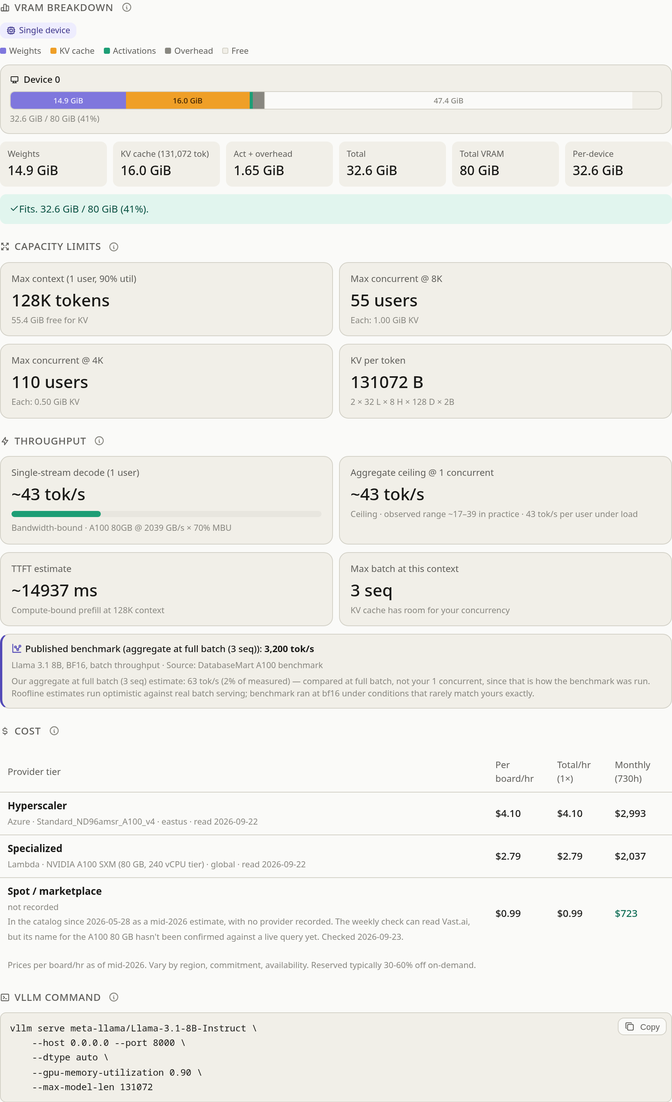
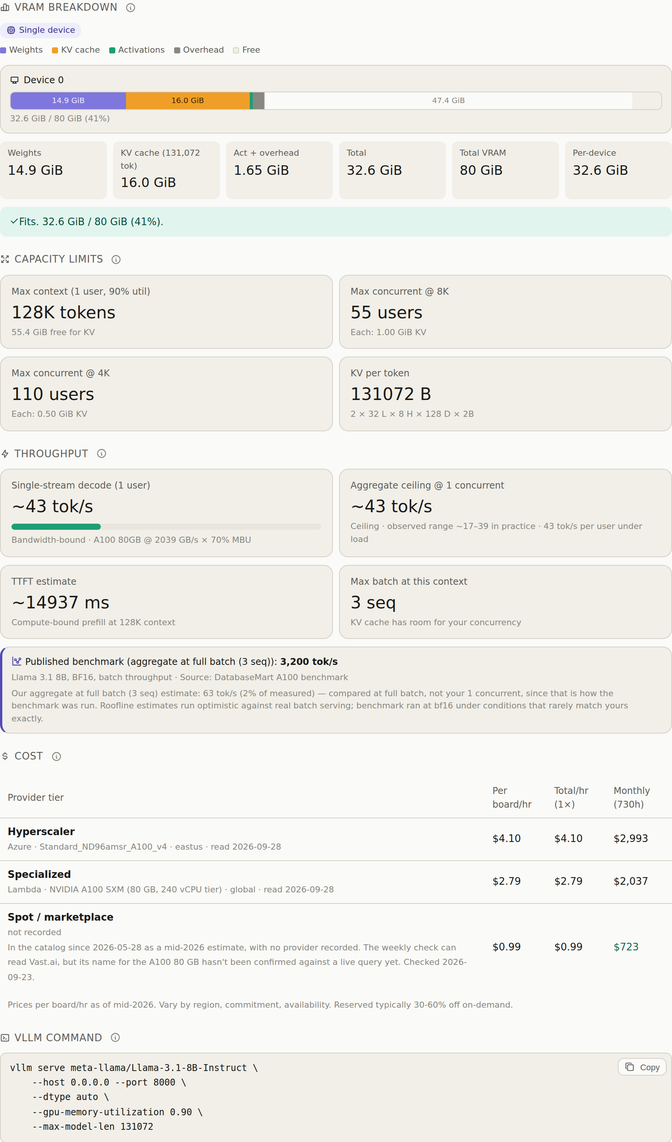
price-refresh: update catalog prices and provenance

diff --git a/index.html b/index.html
@@ -530,22 +530,22 @@ const MODEL_PRESETS = {
    ============================================================================= */
 /* GPU_TABLE:BEGIN — generated by tools/sync_data.py from data/gpus.json. Do not hand-edit; edit the JSON and re-run the script. */
 const GPU_TABLE = {
-  't4-16': { gb:16, bw:320, hyper:0.53, spec:0.35, spot:0.15, tflops:65, name:'T4 16 GB', vendor:'nvidia', perfKey:'nvidia', devices:1, form:'pcie', caps:{ fp8: false }, priceSource:{ hyper: { provider: 'aws', sku: 'g4dn.xlarge', region: 'US East (N. Virginia)', date: '2026-09-22', price: 0.53 } }, priceNote:{ spec: { reason: 'In the catalog since 2026-05-28 as a mid-2026 estimate, with no provider recorded. Lambda and CoreWeave, the specialized clouds the weekly check reads, don\'t list the T4.', checked: '2026-09-16' }, spot: { reason: 'In the catalog since 2026-05-28 as a mid-2026 estimate, with no provider recorded. The weekly check can read Vast.ai, but its name for the T4 hasn\'t been confirmed against a live query yet.', checked: '2026-09-23' } } },
-  'l4-24': { gb:24, bw:300, hyper:0.8, spec:0.43, spot:0.22, tflops:121, name:'L4 24 GB', vendor:'nvidia', perfKey:'nvidia', devices:1, form:'pcie', caps:{ fp8: true }, priceSource:{ hyper: { provider: 'aws', sku: 'g6.xlarge', region: 'US East (N. Virginia)', date: '2026-09-22', price: 0.8 } }, priceNote:{ spec: { reason: 'In the catalog since 2026-07-27 as a mid-2026 list price, with no provider recorded. Lambda and CoreWeave, the specialized clouds the weekly check reads, don\'t list the L4.', checked: '2026-09-16' }, spot: { reason: 'In the catalog since 2026-07-27 as a mid-2026 list price, with no provider recorded. The weekly check can read Vast.ai, but its name for the L4 hasn\'t been confirmed against a live query yet.', checked: '2026-09-23' } } },
-  'rtx4090-24': { gb:24, bw:1008, hyper:null, spec:0.45, spot:0.54, tflops:165, name:'RTX 4090 24 GB', vendor:'nvidia', perfKey:'nvidia', devices:1, form:'consumer', caps:{ fp8: true }, priceSource:{ spot: { provider: 'vast', sku: 'RTX 4090 (median of 43 verified offers)', region: 'global', date: '2026-09-22', price: 0.54 } }, priceNote:{ hyper: { reason: 'No hyperscaler rents this card: AWS, Azure, Google Cloud and Oracle list no offer for it.', checked: '2026-09-23' }, spec: { reason: 'In the catalog since 2026-05-28 as a mid-2026 estimate, with no provider recorded. Lambda and CoreWeave, the specialized clouds the weekly check reads, don\'t list the RTX 4090.', checked: '2026-09-16' } } },
+  't4-16': { gb:16, bw:320, hyper:0.53, spec:0.35, spot:0.15, tflops:65, name:'T4 16 GB', vendor:'nvidia', perfKey:'nvidia', devices:1, form:'pcie', caps:{ fp8: false }, priceSource:{ hyper: { provider: 'aws', sku: 'g4dn.xlarge', region: 'US East (N. Virginia)', date: '2026-09-28', price: 0.53 } }, priceNote:{ spec: { reason: 'In the catalog since 2026-05-28 as a mid-2026 estimate, with no provider recorded. Lambda and CoreWeave, the specialized clouds the weekly check reads, don\'t list the T4.', checked: '2026-09-16' }, spot: { reason: 'In the catalog since 2026-05-28 as a mid-2026 estimate, with no provider recorded. The weekly check can read Vast.ai, but its name for the T4 hasn\'t been confirmed against a live query yet.', checked: '2026-09-23' } } },
+  'l4-24': { gb:24, bw:300, hyper:0.8, spec:0.43, spot:0.22, tflops:121, name:'L4 24 GB', vendor:'nvidia', perfKey:'nvidia', devices:1, form:'pcie', caps:{ fp8: true }, priceSource:{ hyper: { provider: 'aws', sku: 'g6.xlarge', region: 'US East (N. Virginia)', date: '2026-09-28', price: 0.8 } }, priceNote:{ spec: { reason: 'In the catalog since 2026-07-27 as a mid-2026 list price, with no provider recorded. Lambda and CoreWeave, the specialized clouds the weekly check reads, don\'t list the L4.', checked: '2026-09-16' }, spot: { reason: 'In the catalog since 2026-07-27 as a mid-2026 list price, with no provider recorded. The weekly check can read Vast.ai, but its name for the L4 hasn\'t been confirmed against a live query yet.', checked: '2026-09-23' } } },
+  'rtx4090-24': { gb:24, bw:1008, hyper:null, spec:0.45, spot:0.53, tflops:165, name:'RTX 4090 24 GB', vendor:'nvidia', perfKey:'nvidia', devices:1, form:'consumer', caps:{ fp8: true }, priceSource:{ spot: { provider: 'vast', sku: 'RTX 4090 (median of 46 verified offers)', region: 'global', date: '2026-09-28', price: 0.53 } }, priceNote:{ hyper: { reason: 'No hyperscaler rents this card: AWS, Azure, Google Cloud and Oracle list no offer for it.', checked: '2026-09-23' }, spec: { reason: 'In the catalog since 2026-05-28 as a mid-2026 estimate, with no provider recorded. Lambda and CoreWeave, the specialized clouds the weekly check reads, don\'t list the RTX 4090.', checked: '2026-09-16' } } },
   'rtx5090-32': { gb:32, bw:1792, hyper:null, spec:0.65, spot:0.45, tflops:419, name:'RTX 5090 32 GB', vendor:'nvidia', perfKey:'nvidia', devices:1, form:'consumer', caps:{ fp8: true }, priceNote:{ hyper: { reason: 'No hyperscaler rents this card: AWS, Azure, Google Cloud and Oracle list no offer for it.', checked: '2026-09-23' }, spec: { reason: 'In the catalog since 2026-07-27 as a mid-2026 list price, with no provider recorded. Lambda and CoreWeave, the specialized clouds the weekly check reads, don\'t list the RTX 5090.', checked: '2026-09-16' }, spot: { reason: 'In the catalog since 2026-07-27 as a mid-2026 list price, with no provider recorded. The weekly check can read Vast.ai, but its name for the RTX 5090 hasn\'t been confirmed against a live query yet.', checked: '2026-09-23' } } },
-  'a100-40': { gb:40, bw:1555, hyper:3.4, spec:1.99, spot:0.63, tflops:312, name:'A100 40 GB', vendor:'nvidia', perfKey:'nvidia', devices:1, form:'sxm', caps:{ fp8: false }, default:true, priceSource:{ hyper: { provider: 'azure', sku: 'Standard_ND96asr_A100_v4', region: 'eastus', date: '2026-09-22', price: 3.4 }, spec: { provider: 'lambda', sku: 'NVIDIA A100 SXM (40 GB, 124 vCPU tier)', region: 'global', date: '2026-09-22', price: 1.99 } }, priceNote:{ spot: { reason: 'In the catalog since 2026-05-28 as a mid-2026 estimate, with no provider recorded. The weekly check can read Vast.ai, but its name for the A100 40 GB hasn\'t been confirmed against a live query yet.', checked: '2026-09-23' } } },
+  'a100-40': { gb:40, bw:1555, hyper:3.4, spec:1.99, spot:0.63, tflops:312, name:'A100 40 GB', vendor:'nvidia', perfKey:'nvidia', devices:1, form:'sxm', caps:{ fp8: false }, default:true, priceSource:{ hyper: { provider: 'azure', sku: 'Standard_ND96asr_A100_v4', region: 'eastus', date: '2026-09-28', price: 3.4 }, spec: { provider: 'lambda', sku: 'NVIDIA A100 SXM (40 GB, 124 vCPU tier)', region: 'global', date: '2026-09-28', price: 1.99 } }, priceNote:{ spot: { reason: 'In the catalog since 2026-05-28 as a mid-2026 estimate, with no provider recorded. The weekly check can read Vast.ai, but its name for the A100 40 GB hasn\'t been confirmed against a live query yet.', checked: '2026-09-23' } } },
   'rtx6000ada-48': { gb:48, bw:960, hyper:null, spec:0.9, spot:0.6, tflops:364, name:'RTX 6000 Ada 48 GB', vendor:'nvidia', perfKey:'nvidia', devices:1, form:'pcie', caps:{ fp8: true }, priceNote:{ hyper: { reason: 'No hyperscaler rents this card: AWS, Azure, Google Cloud and Oracle list no offer for it.', checked: '2026-09-23' }, spec: { reason: 'In the catalog since 2026-07-27 as a mid-2026 list price, with no provider recorded. Lambda\'s and CoreWeave\'s A6000 is the older Ampere RTX A6000, not this card.', checked: '2026-09-16' }, spot: { reason: 'In the catalog since 2026-07-27 as a mid-2026 list price, with no provider recorded. The weekly check can read Vast.ai, but its name for the RTX 6000 Ada hasn\'t been confirmed against a live query yet.', checked: '2026-09-23' } } },
-  'l40s-48': { gb:48, bw:864, hyper:1.86, spec:2.25, spot:0.9, tflops:362, name:'L40S 48 GB', vendor:'nvidia', perfKey:'nvidia', devices:1, form:'pcie', caps:{ fp8: true }, priceSource:{ hyper: { provider: 'aws', sku: 'g6e.xlarge', region: 'US East (N. Virginia)', date: '2026-09-22', price: 1.86 }, spec: { provider: 'coreweave', sku: 'NVIDIA L40S', region: 'global', date: '2026-09-22', price: 2.25 } }, priceNote:{ spot: { reason: 'In the catalog since 2026-05-28 as a mid-2026 estimate, with no provider recorded. The weekly check can read Vast.ai, but its name for the L40S hasn\'t been confirmed against a live query yet.', checked: '2026-09-23' } } },
-  'a100-80': { gb:80, bw:2039, hyper:4.1, spec:2.79, spot:0.99, tflops:312, name:'A100 80 GB', vendor:'nvidia', perfKey:'nvidia', devices:1, form:'sxm', caps:{ fp8: false }, priceSource:{ hyper: { provider: 'azure', sku: 'Standard_ND96amsr_A100_v4', region: 'eastus', date: '2026-09-22', price: 4.1 }, spec: { provider: 'lambda', sku: 'NVIDIA A100 SXM (80 GB, 240 vCPU tier)', region: 'global', date: '2026-09-22', price: 2.79 } }, priceNote:{ spot: { reason: 'In the catalog since 2026-05-28 as a mid-2026 estimate, with no provider recorded. The weekly check can read Vast.ai, but its name for the A100 80 GB hasn\'t been confirmed against a live query yet.', checked: '2026-09-23' } } },
+  'l40s-48': { gb:48, bw:864, hyper:1.86, spec:2.25, spot:0.9, tflops:362, name:'L40S 48 GB', vendor:'nvidia', perfKey:'nvidia', devices:1, form:'pcie', caps:{ fp8: true }, priceSource:{ hyper: { provider: 'aws', sku: 'g6e.xlarge', region: 'US East (N. Virginia)', date: '2026-09-28', price: 1.86 }, spec: { provider: 'coreweave', sku: 'NVIDIA L40S', region: 'global', date: '2026-09-28', price: 2.25 } }, priceNote:{ spot: { reason: 'In the catalog since 2026-05-28 as a mid-2026 estimate, with no provider recorded. The weekly check can read Vast.ai, but its name for the L40S hasn\'t been confirmed against a live query yet.', checked: '2026-09-23' } } },
+  'a100-80': { gb:80, bw:2039, hyper:4.1, spec:2.79, spot:0.99, tflops:312, name:'A100 80 GB', vendor:'nvidia', perfKey:'nvidia', devices:1, form:'sxm', caps:{ fp8: false }, priceSource:{ hyper: { provider: 'azure', sku: 'Standard_ND96amsr_A100_v4', region: 'eastus', date: '2026-09-28', price: 4.1 }, spec: { provider: 'lambda', sku: 'NVIDIA A100 SXM (80 GB, 240 vCPU tier)', region: 'global', date: '2026-09-28', price: 2.79 } }, priceNote:{ spot: { reason: 'In the catalog since 2026-05-28 as a mid-2026 estimate, with no provider recorded. The weekly check can read Vast.ai, but its name for the A100 80 GB hasn\'t been confirmed against a live query yet.', checked: '2026-09-23' } } },
   'h100-80': { gb:80, bw:3352, hyper:12.3, spec:3.99, spot:2.25, tflops:990, name:'H100 80 GB', vendor:'nvidia', perfKey:'nvidia', devices:1, form:'sxm', caps:{ fp8: true }, priceSource:{ hyper: { provider: 'azure', sku: 'Standard_ND96isr_H100_v5', region: 'eastus', date: '2026-09-22', price: 12.29 }, spec: { provider: 'lambda', sku: 'NVIDIA H100 SXM (80 GB, 208 vCPU tier)', region: 'global', date: '2026-09-22', price: 3.99 } }, priceNote:{ spot: { reason: 'In the catalog since 2026-05-28 as a mid-2026 estimate, with no provider recorded. The weekly Vast.ai read on 2026-09-22 came back 42.5% higher, past the 40% a person has to approve, and is held for a second read.', checked: '2026-09-23' } } },
-  'rtxpro-96': { gb:96, bw:1792, hyper:3.36, spec:2.5, spot:2.0, tflops:504, name:'RTX PRO 6000 96 GB', vendor:'nvidia', perfKey:'nvidia', devices:1, form:'pcie', caps:{ fp8: true }, priceSource:{ spec: { provider: 'coreweave', sku: 'NVIDIA RTX PRO 6000 Blackwell Server Edition (High Memory)', region: 'global', date: '2026-09-22', price: 2.5 }, hyper: { provider: 'aws', sku: 'g7e.2xlarge', region: 'US East (N. Virginia)', date: '2026-09-23', price: 3.36 } }, priceNote:{ spot: { reason: 'In the catalog since 2026-05-28 as a mid-2026 estimate, with no provider recorded. The weekly check can read Vast.ai, but its name for the RTX PRO 6000 hasn\'t been confirmed against a live query yet.', checked: '2026-09-23' } } },
-  'h200-141': { gb:141, bw:4800, hyper:7.91, spec:6.31, spot:2.5, tflops:990, name:'H200 141 GB', vendor:'nvidia', perfKey:'nvidia', devices:1, form:'sxm', caps:{ fp8: true }, priceSource:{ hyper: { provider: 'aws', sku: 'p5en.48xlarge', region: 'US East (N. Virginia)', date: '2026-09-22', price: 7.91 }, spec: { provider: 'coreweave', sku: 'NVIDIA HGX H200', region: 'global', date: '2026-09-22', price: 6.31 } }, priceNote:{ spot: { reason: 'In the catalog since 2026-07-27 as a mid-2026 list price, with no provider recorded. The weekly check can read Vast.ai, but its name for the H200 hasn\'t been confirmed against a live query yet.', checked: '2026-09-23' } } },
-  'b200-192': { gb:192, bw:8000, hyper:14.24, spec:6.69, spot:2.12, tflops:2250, name:'B200 192 GB', vendor:'nvidia', perfKey:'nvidia', devices:1, form:'sxm', caps:{ fp8: true }, priceSource:{ hyper: { provider: 'aws', sku: 'p6-b200.48xlarge', region: 'US East (N. Virginia)', date: '2026-09-22', price: 14.24 }, spec: { provider: 'lambda', sku: 'NVIDIA B200 SXM6 (180 GB, 208 vCPU tier)', region: 'global', date: '2026-09-22', price: 6.69 } }, priceNote:{ spot: { reason: 'In the catalog since 2026-05-28 as a mid-2026 estimate, with no provider recorded. The weekly check can read Vast.ai, but its name for the B200 hasn\'t been confirmed against a live query yet.', checked: '2026-09-23' } } },
+  'rtxpro-96': { gb:96, bw:1792, hyper:3.36, spec:2.5, spot:2.0, tflops:504, name:'RTX PRO 6000 96 GB', vendor:'nvidia', perfKey:'nvidia', devices:1, form:'pcie', caps:{ fp8: true }, priceSource:{ spec: { provider: 'coreweave', sku: 'NVIDIA RTX PRO 6000 Blackwell Server Edition (High Memory)', region: 'global', date: '2026-09-28', price: 2.5 }, hyper: { provider: 'aws', sku: 'g7e.2xlarge', region: 'US East (N. Virginia)', date: '2026-09-28', price: 3.36 } }, priceNote:{ spot: { reason: 'In the catalog since 2026-05-28 as a mid-2026 estimate, with no provider recorded. The weekly check can read Vast.ai, but its name for the RTX PRO 6000 hasn\'t been confirmed against a live query yet.', checked: '2026-09-23' } } },
+  'h200-141': { gb:141, bw:4800, hyper:7.91, spec:6.31, spot:2.5, tflops:990, name:'H200 141 GB', vendor:'nvidia', perfKey:'nvidia', devices:1, form:'sxm', caps:{ fp8: true }, priceSource:{ hyper: { provider: 'aws', sku: 'p5en.48xlarge', region: 'US East (N. Virginia)', date: '2026-09-28', price: 7.91 }, spec: { provider: 'coreweave', sku: 'NVIDIA HGX H200', region: 'global', date: '2026-09-28', price: 6.31 } }, priceNote:{ spot: { reason: 'In the catalog since 2026-07-27 as a mid-2026 list price, with no provider recorded. The weekly check can read Vast.ai, but its name for the H200 hasn\'t been confirmed against a live query yet.', checked: '2026-09-23' } } },
+  'b200-192': { gb:192, bw:8000, hyper:14.24, spec:6.69, spot:2.12, tflops:2250, name:'B200 192 GB', vendor:'nvidia', perfKey:'nvidia', devices:1, form:'sxm', caps:{ fp8: true }, priceSource:{ hyper: { provider: 'aws', sku: 'p6-b200.48xlarge', region: 'US East (N. Virginia)', date: '2026-09-28', price: 14.24 }, spec: { provider: 'lambda', sku: 'NVIDIA B200 SXM6 (180 GB, 208 vCPU tier)', region: 'global', date: '2026-09-22', price: 6.69 } }, priceNote:{ spot: { reason: 'In the catalog since 2026-05-28 as a mid-2026 estimate, with no provider recorded. The weekly check can read Vast.ai, but its name for the B200 hasn\'t been confirmed against a live query yet.', checked: '2026-09-23' } } },
   'rx7900xtx-24': { gb:24, bw:960, hyper:null, spec:null, spot:null, tflops:123, name:'RX 7900 XTX 24 GB', vendor:'amd', perfKey:'rdna3', devices:1, form:'consumer', caps:{ fp8: false }, priceNote:{ hyper: { reason: 'No hyperscaler rents this card.', checked: '2026-09-23' }, spec: { reason: 'No hourly rate anywhere: HOSTKEY rents it only monthly, as a pre-order.', checked: '2026-09-23' }, spot: { reason: 'Vast.ai lists no RX 7900 XTX offers.', checked: '2026-09-23' } }, gfx:'gfx1100' },
   'mi210-64': { gb:64, bw:1638.4, hyper:null, spec:null, spot:null, tflops:181, name:'MI210 64 GB', vendor:'amd', perfKey:'cdna2', devices:1, form:'pcie', caps:{ fp8: false }, priceNote:{ hyper: { reason: 'No hyperscaler rents this card: it is missing from the Azure API, Oracle\'s price list, AWS and Google Cloud.', checked: '2026-09-23' }, spec: { reason: 'The one hourly rate found, Runcrate\'s, could not be confirmed; it is shown below as a lead.', checked: '2026-09-23' }, spot: { reason: 'No spot or marketplace offer found.', checked: '2026-09-23' } }, priceLead:{ spec: [{ provider: 'Runcrate', price: 0.82, url: 'https://www.runcrate.ai/pricing/gpu/mi210', date: '2026-09-23', why: 'Runcrate\'s own pricing page lists no AMD GPU, and the independent tracker checked lists no Runcrate AMD offer.', about: 'https://github.com/israelhen153/llm-vram-planner/blob/HEAD/docs/research/runcrate-due-diligence.md' }] }, gfx:'gfx90a' },
   'mi250x-128': { gb:128, bw:3276.8, hyper:null, spec:null, spot:null, tflops:383, name:'MI250X 128 GB', vendor:'amd', perfKey:'cdna2', devices:2, form:'oam', caps:{ fp8: false }, priceNote:{ hyper: { reason: 'No hyperscaler rents this card: it is missing from the Azure API, Oracle\'s price list, AWS and Google Cloud.', checked: '2026-09-23' }, spec: { reason: 'Cirrascale lists the MI250, not the MI250X, and only monthly. The one hourly rate found, Runcrate\'s, could not be confirmed; it is shown below as a lead.', checked: '2026-09-23' }, spot: { reason: 'No spot or marketplace offer found.', checked: '2026-09-23' } }, priceLead:{ spec: [{ provider: 'Runcrate', price: 1.35, url: 'https://www.runcrate.ai/pricing/gpu/mi250x', date: '2026-09-23', why: 'Runcrate\'s own pricing page lists no AMD GPU, and the independent tracker checked lists no Runcrate AMD offer.', about: 'https://github.com/israelhen153/llm-vram-planner/blob/HEAD/docs/research/runcrate-due-diligence.md' }] }, gfx:'gfx90a' },
-  'mi300x-192': { gb:192, bw:5325, hyper:6.0, spec:2.39, spot:1.11, tflops:1307.4, name:'MI300X 192 GB', vendor:'amd', perfKey:'cdna3', devices:1, form:'oam', caps:{ fp8: true }, priceSource:{ hyper: { provider: 'azure', sku: 'Standard_ND96isr_MI300X_v5', region: 'eastus2', date: '2026-09-23', price: 6.0 }, spot: { provider: 'azure', sku: 'Standard_ND96isr_MI300X_v5 (Spot)', region: 'eastus2', date: '2026-09-23', price: 1.11 } }, priceRecord:{ spec: { provider: 'RunPod', sku: 'MI300X (Secure Cloud)', region: 'global', date: '2026-09-23', price: 2.39, url: 'https://www.runpod.io/gpu-models/mi300x' } }, gfx:'gfx942' },
+  'mi300x-192': { gb:192, bw:5325, hyper:6.0, spec:2.39, spot:1.11, tflops:1307.4, name:'MI300X 192 GB', vendor:'amd', perfKey:'cdna3', devices:1, form:'oam', caps:{ fp8: true }, priceSource:{ hyper: { provider: 'azure', sku: 'Standard_ND96isr_MI300X_v5', region: 'eastus2', date: '2026-09-28', price: 6.0 }, spot: { provider: 'azure', sku: 'Standard_ND96isr_MI300X_v5 (Spot)', region: 'eastus2', date: '2026-09-28', price: 1.11 } }, priceRecord:{ spec: { provider: 'RunPod', sku: 'MI300X (Secure Cloud)', region: 'global', date: '2026-09-23', price: 2.39, url: 'https://www.runpod.io/gpu-models/mi300x' } }, gfx:'gfx942' },
   'mi325x-256': { gb:256, bw:6000, hyper:null, spec:3.8, spot:null, tflops:1307.4, name:'MI325X 256 GB', vendor:'amd', perfKey:'cdna3', devices:1, form:'oam', caps:{ fp8: true }, priceRecord:{ spec: { provider: 'DigitalOcean', sku: 'AMD Instinct™ MI325X', region: 'global', date: '2026-09-23', price: 3.8, url: 'https://www.digitalocean.com/pricing/gpu-droplets' } }, priceNote:{ hyper: { reason: 'No hyperscaler rents this card: it is missing from the Azure API, Oracle\'s price list, AWS and Google Cloud.', checked: '2026-09-23' }, spot: { reason: 'Vultr lists a preemptible plan, but no location offers it; its rate is shown below as a lead.', checked: '2026-09-23' } }, priceLead:{ spot: [{ provider: 'Vultr', price: 2.0, url: 'https://api.vultr.com/v2/plans-metal', date: '2026-09-23', why: 'It is the preemptible rate of an 8-GPU bare-metal plan that Vultr\'s API lists with no location offering it.' }] }, gfx:'gfx942' },
 };
 /* GPU_TABLE:END */

diff --git a/generate_report.py b/generate_report.py
@@ -84,22 +84,22 @@ GIB = 1024 ** 3
 
 # GPU_TABLE:BEGIN — generated by tools/sync_data.py from data/gpus.json. Do not hand-edit; edit the JSON and re-run the script.
 GPUS = {
-    "t4-16": {"gb":16,"bw":320,"hyper":0.53,"spec":0.35,"spot":0.15,"tflops":65,"name":"T4 16 GB","vendor":"nvidia","perfKey":"nvidia","devices":1,"form":"pcie","caps":{"fp8": False},"priceSource":{"hyper": {"provider": "aws", "sku": "g4dn.xlarge", "region": "US East (N. Virginia)", "date": "2026-09-22", "price": 0.53}},"priceNote":{"spec": {"reason": "In the catalog since 2026-05-28 as a mid-2026 estimate, with no provider recorded. Lambda and CoreWeave, the specialized clouds the weekly check reads, don't list the T4.", "checked": "2026-09-16"}, "spot": {"reason": "In the catalog since 2026-05-28 as a mid-2026 estimate, with no provider recorded. The weekly check can read Vast.ai, but its name for the T4 hasn't been confirmed against a live query yet.", "checked": "2026-09-23"}}},
-    "l4-24": {"gb":24,"bw":300,"hyper":0.8,"spec":0.43,"spot":0.22,"tflops":121,"name":"L4 24 GB","vendor":"nvidia","perfKey":"nvidia","devices":1,"form":"pcie","caps":{"fp8": True},"priceSource":{"hyper": {"provider": "aws", "sku": "g6.xlarge", "region": "US East (N. Virginia)", "date": "2026-09-22", "price": 0.8}},"priceNote":{"spec": {"reason": "In the catalog since 2026-07-27 as a mid-2026 list price, with no provider recorded. Lambda and CoreWeave, the specialized clouds the weekly check reads, don't list the L4.", "checked": "2026-09-16"}, "spot": {"reason": "In the catalog since 2026-07-27 as a mid-2026 list price, with no provider recorded. The weekly check can read Vast.ai, but its name for the L4 hasn't been confirmed against a live query yet.", "checked": "2026-09-23"}}},
-    "rtx4090-24": {"gb":24,"bw":1008,"hyper":None,"spec":0.45,"spot":0.54,"tflops":165,"name":"RTX 4090 24 GB","vendor":"nvidia","perfKey":"nvidia","devices":1,"form":"consumer","caps":{"fp8": True},"priceSource":{"spot": {"provider": "vast", "sku": "RTX 4090 (median of 43 verified offers)", "region": "global", "date": "2026-09-22", "price": 0.54}},"priceNote":{"hyper": {"reason": "No hyperscaler rents this card: AWS, Azure, Google Cloud and Oracle list no offer for it.", "checked": "2026-09-23"}, "spec": {"reason": "In the catalog since 2026-05-28 as a mid-2026 estimate, with no provider recorded. Lambda and CoreWeave, the specialized clouds the weekly check reads, don't list the RTX 4090.", "checked": "2026-09-16"}}},
+    "t4-16": {"gb":16,"bw":320,"hyper":0.53,"spec":0.35,"spot":0.15,"tflops":65,"name":"T4 16 GB","vendor":"nvidia","perfKey":"nvidia","devices":1,"form":"pcie","caps":{"fp8": False},"priceSource":{"hyper": {"provider": "aws", "sku": "g4dn.xlarge", "region": "US East (N. Virginia)", "date": "2026-09-28", "price": 0.53}},"priceNote":{"spec": {"reason": "In the catalog since 2026-05-28 as a mid-2026 estimate, with no provider recorded. Lambda and CoreWeave, the specialized clouds the weekly check reads, don't list the T4.", "checked": "2026-09-16"}, "spot": {"reason": "In the catalog since 2026-05-28 as a mid-2026 estimate, with no provider recorded. The weekly check can read Vast.ai, but its name for the T4 hasn't been confirmed against a live query yet.", "checked": "2026-09-23"}}},
+    "l4-24": {"gb":24,"bw":300,"hyper":0.8,"spec":0.43,"spot":0.22,"tflops":121,"name":"L4 24 GB","vendor":"nvidia","perfKey":"nvidia","devices":1,"form":"pcie","caps":{"fp8": True},"priceSource":{"hyper": {"provider": "aws", "sku": "g6.xlarge", "region": "US East (N. Virginia)", "date": "2026-09-28", "price": 0.8}},"priceNote":{"spec": {"reason": "In the catalog since 2026-07-27 as a mid-2026 list price, with no provider recorded. Lambda and CoreWeave, the specialized clouds the weekly check reads, don't list the L4.", "checked": "2026-09-16"}, "spot": {"reason": "In the catalog since 2026-07-27 as a mid-2026 list price, with no provider recorded. The weekly check can read Vast.ai, but its name for the L4 hasn't been confirmed against a live query yet.", "checked": "2026-09-23"}}},
+    "rtx4090-24": {"gb":24,"bw":1008,"hyper":None,"spec":0.45,"spot":0.53,"tflops":165,"name":"RTX 4090 24 GB","vendor":"nvidia","perfKey":"nvidia","devices":1,"form":"consumer","caps":{"fp8": True},"priceSource":{"spot": {"provider": "vast", "sku": "RTX 4090 (median of 46 verified offers)", "region": "global", "date": "2026-09-28", "price": 0.53}},"priceNote":{"hyper": {"reason": "No hyperscaler rents this card: AWS, Azure, Google Cloud and Oracle list no offer for it.", "checked": "2026-09-23"}, "spec": {"reason": "In the catalog since 2026-05-28 as a mid-2026 estimate, with no provider recorded. Lambda and CoreWeave, the specialized clouds the weekly check reads, don't list the RTX 4090.", "checked": "2026-09-16"}}},
     "rtx5090-32": {"gb":32,"bw":1792,"hyper":None,"spec":0.65,"spot":0.45,"tflops":419,"name":"RTX 5090 32 GB","vendor":"nvidia","perfKey":"nvidia","devices":1,"form":"consumer","caps":{"fp8": True},"priceNote":{"hyper": {"reason": "No hyperscaler rents this card: AWS, Azure, Google Cloud and Oracle list no offer for it.", "checked": "2026-09-23"}, "spec": {"reason": "In the catalog since 2026-07-27 as a mid-2026 list price, with no provider recorded. Lambda and CoreWeave, the specialized clouds the weekly check reads, don't list the RTX 5090.", "checked": "2026-09-16"}, "spot": {"reason": "In the catalog since 2026-07-27 as a mid-2026 list price, with no provider recorded. The weekly check can read Vast.ai, but its name for the RTX 5090 hasn't been confirmed against a live query yet.", "checked": "2026-09-23"}}},
-    "a100-40": {"gb":40,"bw":1555,"hyper":3.4,"spec":1.99,"spot":0.63,"tflops":312,"name":"A100 40 GB","vendor":"nvidia","perfKey":"nvidia","devices":1,"form":"sxm","caps":{"fp8": False},"default":True,"priceSource":{"hyper": {"provider": "azure", "sku": "Standard_ND96asr_A100_v4", "region": "eastus", "date": "2026-09-22", "price": 3.4}, "spec": {"provider": "lambda", "sku": "NVIDIA A100 SXM (40 GB, 124 vCPU tier)", "region": "global", "date": "2026-09-22", "price": 1.99}},"priceNote":{"spot": {"reason": "In the catalog since 2026-05-28 as a mid-2026 estimate, with no provider recorded. The weekly check can read Vast.ai, but its name for the A100 40 GB hasn't been confirmed against a live query yet.", "checked": "2026-09-23"}}},
+    "a100-40": {"gb":40,"bw":1555,"hyper":3.4,"spec":1.99,"spot":0.63,"tflops":312,"name":"A100 40 GB","vendor":"nvidia","perfKey":"nvidia","devices":1,"form":"sxm","caps":{"fp8": False},"default":True,"priceSource":{"hyper": {"provider": "azure", "sku": "Standard_ND96asr_A100_v4", "region": "eastus", "date": "2026-09-28", "price": 3.4}, "spec": {"provider": "lambda", "sku": "NVIDIA A100 SXM (40 GB, 124 vCPU tier)", "region": "global", "date": "2026-09-28", "price": 1.99}},"priceNote":{"spot": {"reason": "In the catalog since 2026-05-28 as a mid-2026 estimate, with no provider recorded. The weekly check can read Vast.ai, but its name for the A100 40 GB hasn't been confirmed against a live query yet.", "checked": "2026-09-23"}}},
     "rtx6000ada-48": {"gb":48,"bw":960,"hyper":None,"spec":0.9,"spot":0.6,"tflops":364,"name":"RTX 6000 Ada 48 GB","vendor":"nvidia","perfKey":"nvidia","devices":1,"form":"pcie","caps":{"fp8": True},"priceNote":{"hyper": {"reason": "No hyperscaler rents this card: AWS, Azure, Google Cloud and Oracle list no offer for it.", "checked": "2026-09-23"}, "spec": {"reason": "In the catalog since 2026-07-27 as a mid-2026 list price, with no provider recorded. Lambda's and CoreWeave's A6000 is the older Ampere RTX A6000, not this card.", "checked": "2026-09-16"}, "spot": {"reason": "In the catalog since 2026-07-27 as a mid-2026 list price, with no provider recorded. The weekly check can read Vast.ai, but its name for the RTX 6000 Ada hasn't been confirmed against a live query yet.", "checked": "2026-09-23"}}},
-    "l40s-48": {"gb":48,"bw":864,"hyper":1.86,"spec":2.25,"spot":0.9,"tflops":362,"name":"L40S 48 GB","vendor":"nvidia","perfKey":"nvidia","devices":1,"form":"pcie","caps":{"fp8": True},"priceSource":{"hyper": {"provider": "aws", "sku": "g6e.xlarge", "region": "US East (N. Virginia)", "date": "2026-09-22", "price": 1.86}, "spec": {"provider": "coreweave", "sku": "NVIDIA L40S", "region": "global", "date": "2026-09-22", "price": 2.25}},"priceNote":{"spot": {"reason": "In the catalog since 2026-05-28 as a mid-2026 estimate, with no provider recorded. The weekly check can read Vast.ai, but its name for the L40S hasn't been confirmed against a live query yet.", "checked": "2026-09-23"}}},
-    "a100-80": {"gb":80,"bw":2039,"hyper":4.1,"spec":2.79,"spot":0.99,"tflops":312,"name":"A100 80 GB","vendor":"nvidia","perfKey":"nvidia","devices":1,"form":"sxm","caps":{"fp8": False},"priceSource":{"hyper": {"provider": "azure", "sku": "Standard_ND96amsr_A100_v4", "region": "eastus", "date": "2026-09-22", "price": 4.1}, "spec": {"provider": "lambda", "sku": "NVIDIA A100 SXM (80 GB, 240 vCPU tier)", "region": "global", "date": "2026-09-22", "price": 2.79}},"priceNote":{"spot": {"reason": "In the catalog since 2026-05-28 as a mid-2026 estimate, with no provider recorded. The weekly check can read Vast.ai, but its name for the A100 80 GB hasn't been confirmed against a live query yet.", "checked": "2026-09-23"}}},
+    "l40s-48": {"gb":48,"bw":864,"hyper":1.86,"spec":2.25,"spot":0.9,"tflops":362,"name":"L40S 48 GB","vendor":"nvidia","perfKey":"nvidia","devices":1,"form":"pcie","caps":{"fp8": True},"priceSource":{"hyper": {"provider": "aws", "sku": "g6e.xlarge", "region": "US East (N. Virginia)", "date": "2026-09-28", "price": 1.86}, "spec": {"provider": "coreweave", "sku": "NVIDIA L40S", "region": "global", "date": "2026-09-28", "price": 2.25}},"priceNote":{"spot": {"reason": "In the catalog since 2026-05-28 as a mid-2026 estimate, with no provider recorded. The weekly check can read Vast.ai, but its name for the L40S hasn't been confirmed against a live query yet.", "checked": "2026-09-23"}}},
+    "a100-80": {"gb":80,"bw":2039,"hyper":4.1,"spec":2.79,"spot":0.99,"tflops":312,"name":"A100 80 GB","vendor":"nvidia","perfKey":"nvidia","devices":1,"form":"sxm","caps":{"fp8": False},"priceSource":{"hyper": {"provider": "azure", "sku": "Standard_ND96amsr_A100_v4", "region": "eastus", "date": "2026-09-28", "price": 4.1}, "spec": {"provider": "lambda", "sku": "NVIDIA A100 SXM (80 GB, 240 vCPU tier)", "region": "global", "date": "2026-09-28", "price": 2.79}},"priceNote":{"spot": {"reason": "In the catalog since 2026-05-28 as a mid-2026 estimate, with no provider recorded. The weekly check can read Vast.ai, but its name for the A100 80 GB hasn't been confirmed against a live query yet.", "checked": "2026-09-23"}}},
     "h100-80": {"gb":80,"bw":3352,"hyper":12.3,"spec":3.99,"spot":2.25,"tflops":990,"name":"H100 80 GB","vendor":"nvidia","perfKey":"nvidia","devices":1,"form":"sxm","caps":{"fp8": True},"priceSource":{"hyper": {"provider": "azure", "sku": "Standard_ND96isr_H100_v5", "region": "eastus", "date": "2026-09-22", "price": 12.29}, "spec": {"provider": "lambda", "sku": "NVIDIA H100 SXM (80 GB, 208 vCPU tier)", "region": "global", "date": "2026-09-22", "price": 3.99}},"priceNote":{"spot": {"reason": "In the catalog since 2026-05-28 as a mid-2026 estimate, with no provider recorded. The weekly Vast.ai read on 2026-09-22 came back 42.5% higher, past the 40% a person has to approve, and is held for a second read.", "checked": "2026-09-23"}}},
-    "rtxpro-96": {"gb":96,"bw":1792,"hyper":3.36,"spec":2.5,"spot":2.0,"tflops":504,"name":"RTX PRO 6000 96 GB","vendor":"nvidia","perfKey":"nvidia","devices":1,"form":"pcie","caps":{"fp8": True},"priceSource":{"spec": {"provider": "coreweave", "sku": "NVIDIA RTX PRO 6000 Blackwell Server Edition (High Memory)", "region": "global", "date": "2026-09-22", "price": 2.5}, "hyper": {"provider": "aws", "sku": "g7e.2xlarge", "region": "US East (N. Virginia)", "date": "2026-09-23", "price": 3.36}},"priceNote":{"spot": {"reason": "In the catalog since 2026-05-28 as a mid-2026 estimate, with no provider recorded. The weekly check can read Vast.ai, but its name for the RTX PRO 6000 hasn't been confirmed against a live query yet.", "checked": "2026-09-23"}}},
-    "h200-141": {"gb":141,"bw":4800,"hyper":7.91,"spec":6.31,"spot":2.5,"tflops":990,"name":"H200 141 GB","vendor":"nvidia","perfKey":"nvidia","devices":1,"form":"sxm","caps":{"fp8": True},"priceSource":{"hyper": {"provider": "aws", "sku": "p5en.48xlarge", "region": "US East (N. Virginia)", "date": "2026-09-22", "price": 7.91}, "spec": {"provider": "coreweave", "sku": "NVIDIA HGX H200", "region": "global", "date": "2026-09-22", "price": 6.31}},"priceNote":{"spot": {"reason": "In the catalog since 2026-07-27 as a mid-2026 list price, with no provider recorded. The weekly check can read Vast.ai, but its name for the H200 hasn't been confirmed against a live query yet.", "checked": "2026-09-23"}}},
-    "b200-192": {"gb":192,"bw":8000,"hyper":14.24,"spec":6.69,"spot":2.12,"tflops":2250,"name":"B200 192 GB","vendor":"nvidia","perfKey":"nvidia","devices":1,"form":"sxm","caps":{"fp8": True},"priceSource":{"hyper": {"provider": "aws", "sku": "p6-b200.48xlarge", "region": "US East (N. Virginia)", "date": "2026-09-22", "price": 14.24}, "spec": {"provider": "lambda", "sku": "NVIDIA B200 SXM6 (180 GB, 208 vCPU tier)", "region": "global", "date": "2026-09-22", "price": 6.69}},"priceNote":{"spot": {"reason": "In the catalog since 2026-05-28 as a mid-2026 estimate, with no provider recorded. The weekly check can read Vast.ai, but its name for the B200 hasn't been confirmed against a live query yet.", "checked": "2026-09-23"}}},
+    "rtxpro-96": {"gb":96,"bw":1792,"hyper":3.36,"spec":2.5,"spot":2.0,"tflops":504,"name":"RTX PRO 6000 96 GB","vendor":"nvidia","perfKey":"nvidia","devices":1,"form":"pcie","caps":{"fp8": True},"priceSource":{"spec": {"provider": "coreweave", "sku": "NVIDIA RTX PRO 6000 Blackwell Server Edition (High Memory)", "region": "global", "date": "2026-09-28", "price": 2.5}, "hyper": {"provider": "aws", "sku": "g7e.2xlarge", "region": "US East (N. Virginia)", "date": "2026-09-28", "price": 3.36}},"priceNote":{"spot": {"reason": "In the catalog since 2026-05-28 as a mid-2026 estimate, with no provider recorded. The weekly check can read Vast.ai, but its name for the RTX PRO 6000 hasn't been confirmed against a live query yet.", "checked": "2026-09-23"}}},
+    "h200-141": {"gb":141,"bw":4800,"hyper":7.91,"spec":6.31,"spot":2.5,"tflops":990,"name":"H200 141 GB","vendor":"nvidia","perfKey":"nvidia","devices":1,"form":"sxm","caps":{"fp8": True},"priceSource":{"hyper": {"provider": "aws", "sku": "p5en.48xlarge", "region": "US East (N. Virginia)", "date": "2026-09-28", "price": 7.91}, "spec": {"provider": "coreweave", "sku": "NVIDIA HGX H200", "region": "global", "date": "2026-09-28", "price": 6.31}},"priceNote":{"spot": {"reason": "In the catalog since 2026-07-27 as a mid-2026 list price, with no provider recorded. The weekly check can read Vast.ai, but its name for the H200 hasn't been confirmed against a live query yet.", "checked": "2026-09-23"}}},
+    "b200-192": {"gb":192,"bw":8000,"hyper":14.24,"spec":6.69,"spot":2.12,"tflops":2250,"name":"B200 192 GB","vendor":"nvidia","perfKey":"nvidia","devices":1,"form":"sxm","caps":{"fp8": True},"priceSource":{"hyper": {"provider": "aws", "sku": "p6-b200.48xlarge", "region": "US East (N. Virginia)", "date": "2026-09-28", "price": 14.24}, "spec": {"provider": "lambda", "sku": "NVIDIA B200 SXM6 (180 GB, 208 vCPU tier)", "region": "global", "date": "2026-09-22", "price": 6.69}},"priceNote":{"spot": {"reason": "In the catalog since 2026-05-28 as a mid-2026 estimate, with no provider recorded. The weekly check can read Vast.ai, but its name for the B200 hasn't been confirmed against a live query yet.", "checked": "2026-09-23"}}},
     "rx7900xtx-24": {"gb":24,"bw":960,"hyper":None,"spec":None,"spot":None,"tflops":123,"name":"RX 7900 XTX 24 GB","vendor":"amd","perfKey":"rdna3","devices":1,"form":"consumer","caps":{"fp8": False},"priceNote":{"hyper": {"reason": "No hyperscaler rents this card.", "checked": "2026-09-23"}, "spec": {"reason": "No hourly rate anywhere: HOSTKEY rents it only monthly, as a pre-order.", "checked": "2026-09-23"}, "spot": {"reason": "Vast.ai lists no RX 7900 XTX offers.", "checked": "2026-09-23"}},"gfx":"gfx1100"},
     "mi210-64": {"gb":64,"bw":1638.4,"hyper":None,"spec":None,"spot":None,"tflops":181,"name":"MI210 64 GB","vendor":"amd","perfKey":"cdna2","devices":1,"form":"pcie","caps":{"fp8": False},"priceNote":{"hyper": {"reason": "No hyperscaler rents this card: it is missing from the Azure API, Oracle's price list, AWS and Google Cloud.", "checked": "2026-09-23"}, "spec": {"reason": "The one hourly rate found, Runcrate's, could not be confirmed; it is shown below as a lead.", "checked": "2026-09-23"}, "spot": {"reason": "No spot or marketplace offer found.", "checked": "2026-09-23"}},"priceLead":{"spec": [{"provider": "Runcrate", "price": 0.82, "url": "https://www.runcrate.ai/pricing/gpu/mi210", "date": "2026-09-23", "why": "Runcrate's own pricing page lists no AMD GPU, and the independent tracker checked lists no Runcrate AMD offer.", "about": "https://github.com/israelhen153/llm-vram-planner/blob/HEAD/docs/research/runcrate-due-diligence.md"}]},"gfx":"gfx90a"},
     "mi250x-128": {"gb":128,"bw":3276.8,"hyper":None,"spec":None,"spot":None,"tflops":383,"name":"MI250X 128 GB","vendor":"amd","perfKey":"cdna2","devices":2,"form":"oam","caps":{"fp8": False},"priceNote":{"hyper": {"reason": "No hyperscaler rents this card: it is missing from the Azure API, Oracle's price list, AWS and Google Cloud.", "checked": "2026-09-23"}, "spec": {"reason": "Cirrascale lists the MI250, not the MI250X, and only monthly. The one hourly rate found, Runcrate's, could not be confirmed; it is shown below as a lead.", "checked": "2026-09-23"}, "spot": {"reason": "No spot or marketplace offer found.", "checked": "2026-09-23"}},"priceLead":{"spec": [{"provider": "Runcrate", "price": 1.35, "url": "https://www.runcrate.ai/pricing/gpu/mi250x", "date": "2026-09-23", "why": "Runcrate's own pricing page lists no AMD GPU, and the independent tracker checked lists no Runcrate AMD offer.", "about": "https://github.com/israelhen153/llm-vram-planner/blob/HEAD/docs/research/runcrate-due-diligence.md"}]},"gfx":"gfx90a"},
-    "mi300x-192": {"gb":192,"bw":5325,"hyper":6.0,"spec":2.39,"spot":1.11,"tflops":1307.4,"name":"MI300X 192 GB","vendor":"amd","perfKey":"cdna3","devices":1,"form":"oam","caps":{"fp8": True},"priceSource":{"hyper": {"provider": "azure", "sku": "Standard_ND96isr_MI300X_v5", "region": "eastus2", "date": "2026-09-23", "price": 6.0}, "spot": {"provider": "azure", "sku": "Standard_ND96isr_MI300X_v5 (Spot)", "region": "eastus2", "date": "2026-09-23", "price": 1.11}},"priceRecord":{"spec": {"provider": "RunPod", "sku": "MI300X (Secure Cloud)", "region": "global", "date": "2026-09-23", "price": 2.39, "url": "https://www.runpod.io/gpu-models/mi300x"}},"gfx":"gfx942"},
+    "mi300x-192": {"gb":192,"bw":5325,"hyper":6.0,"spec":2.39,"spot":1.11,"tflops":1307.4,"name":"MI300X 192 GB","vendor":"amd","perfKey":"cdna3","devices":1,"form":"oam","caps":{"fp8": True},"priceSource":{"hyper": {"provider": "azure", "sku": "Standard_ND96isr_MI300X_v5", "region": "eastus2", "date": "2026-09-28", "price": 6.0}, "spot": {"provider": "azure", "sku": "Standard_ND96isr_MI300X_v5 (Spot)", "region": "eastus2", "date": "2026-09-28", "price": 1.11}},"priceRecord":{"spec": {"provider": "RunPod", "sku": "MI300X (Secure Cloud)", "region": "global", "date": "2026-09-23", "price": 2.39, "url": "https://www.runpod.io/gpu-models/mi300x"}},"gfx":"gfx942"},
     "mi325x-256": {"gb":256,"bw":6000,"hyper":None,"spec":3.8,"spot":None,"tflops":1307.4,"name":"MI325X 256 GB","vendor":"amd","perfKey":"cdna3","devices":1,"form":"oam","caps":{"fp8": True},"priceRecord":{"spec": {"provider": "DigitalOcean", "sku": "AMD Instinct\u2122 MI325X", "region": "global", "date": "2026-09-23", "price": 3.8, "url": "https://www.digitalocean.com/pricing/gpu-droplets"}},"priceNote":{"hyper": {"reason": "No hyperscaler rents this card: it is missing from the Azure API, Oracle's price list, AWS and Google Cloud.", "checked": "2026-09-23"}, "spot": {"reason": "Vultr lists a preemptible plan, but no location offers it; its rate is shown below as a lead.", "checked": "2026-09-23"}},"priceLead":{"spot": [{"provider": "Vultr", "price": 2.0, "url": "https://api.vultr.com/v2/plans-metal", "date": "2026-09-23", "why": "It is the preemptible rate of an 8-GPU bare-metal plan that Vultr's API lists with no location offering it."}]},"gfx":"gfx942"},
 }
 # GPU_TABLE:END
